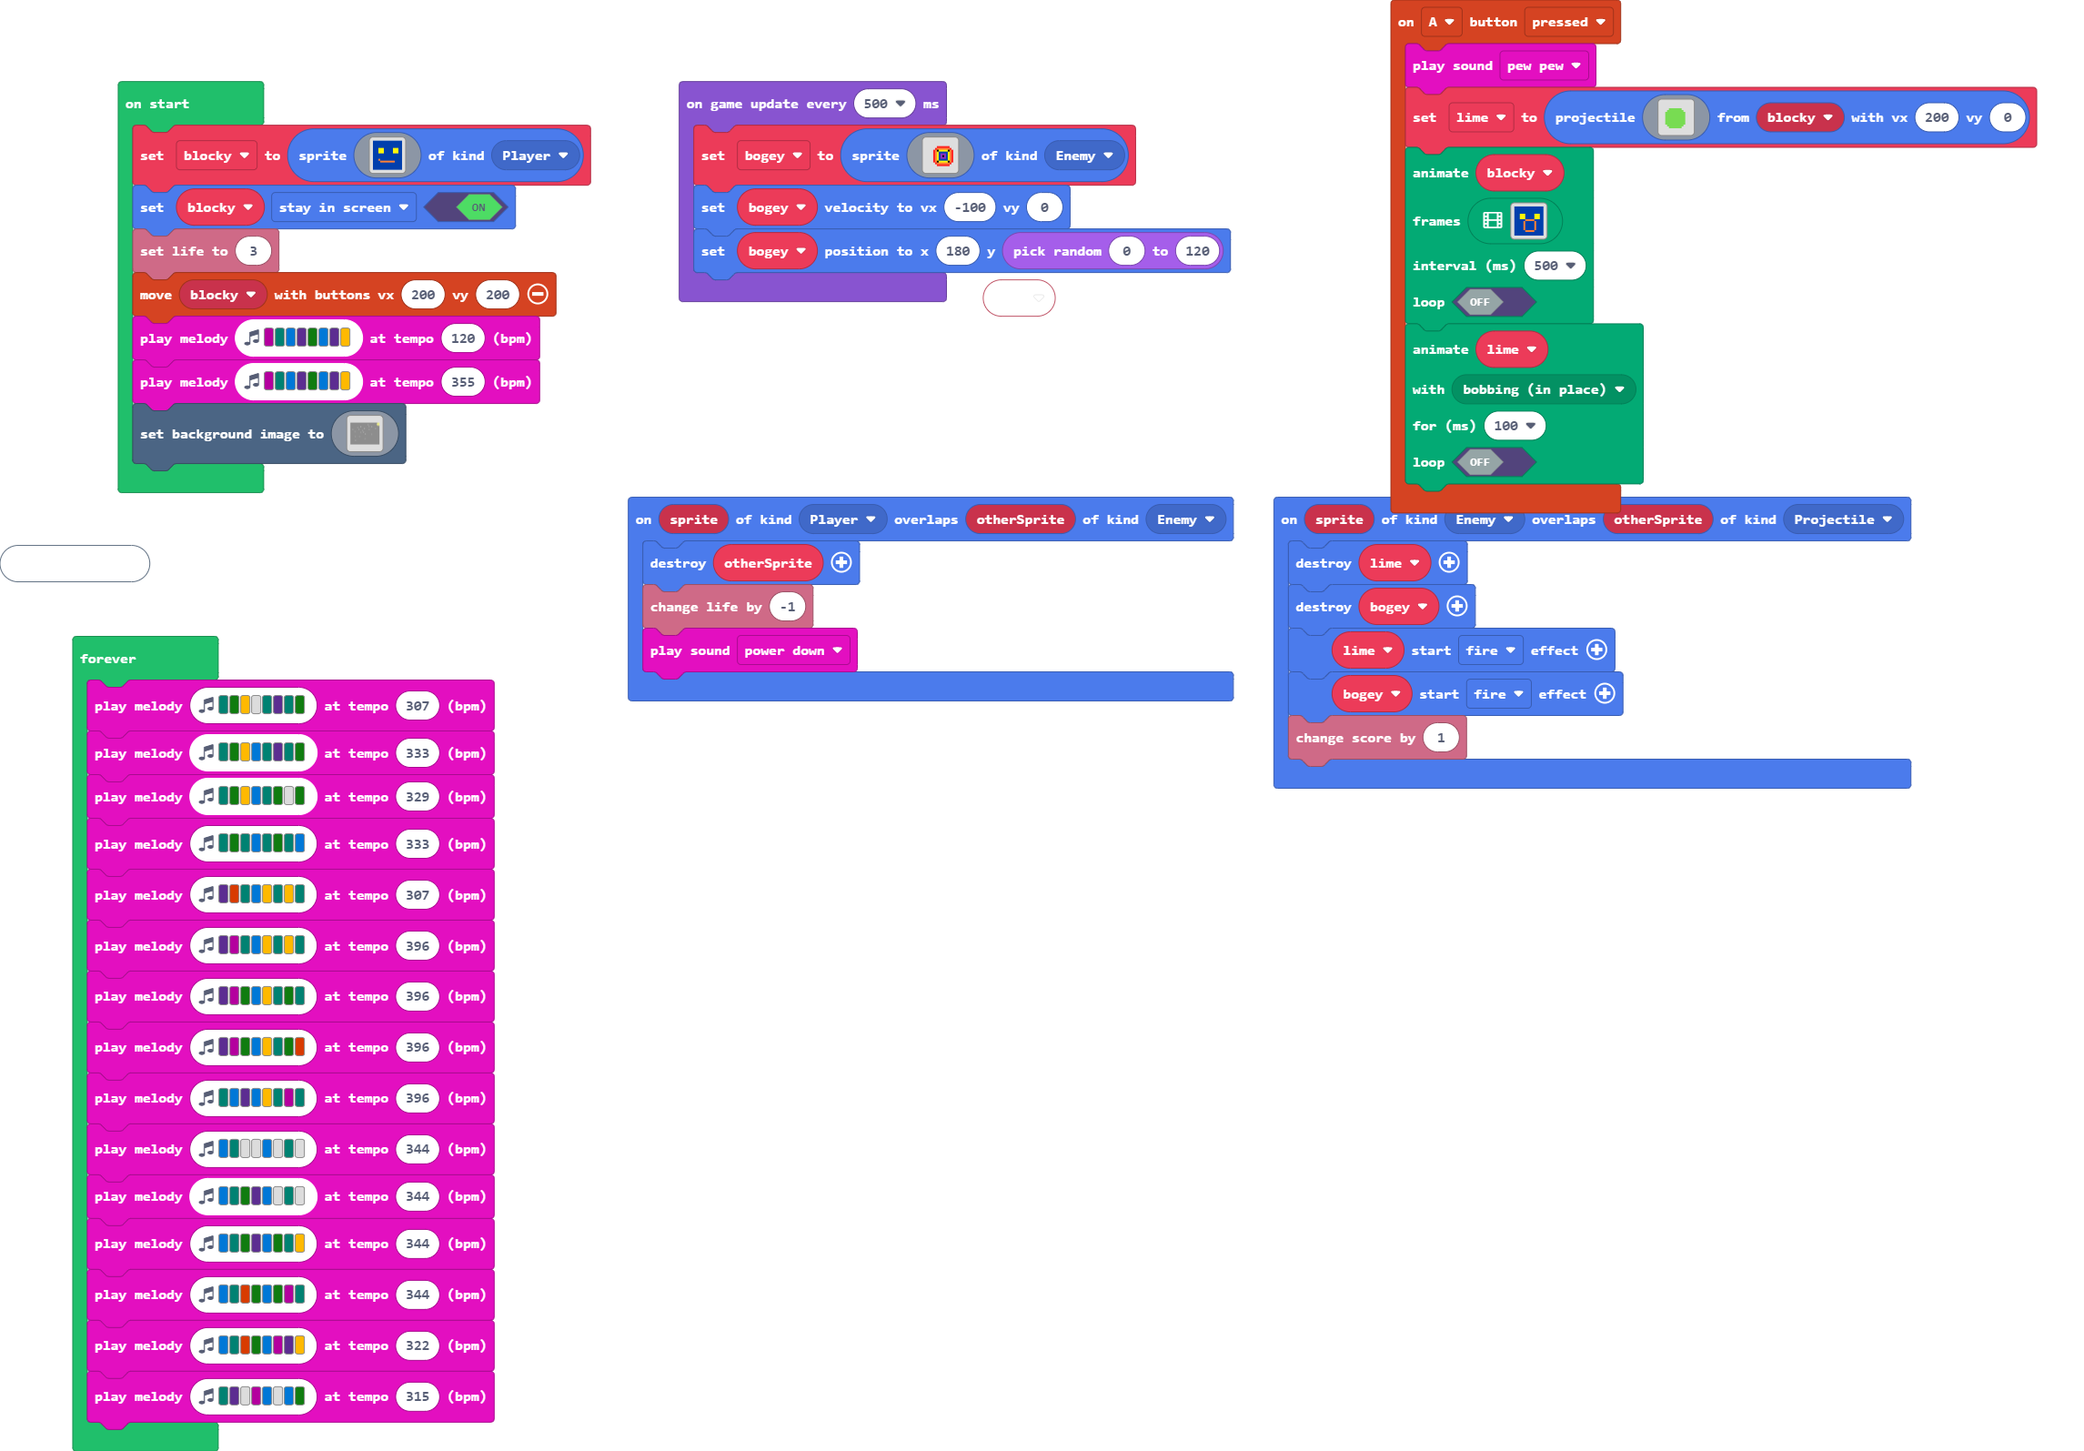
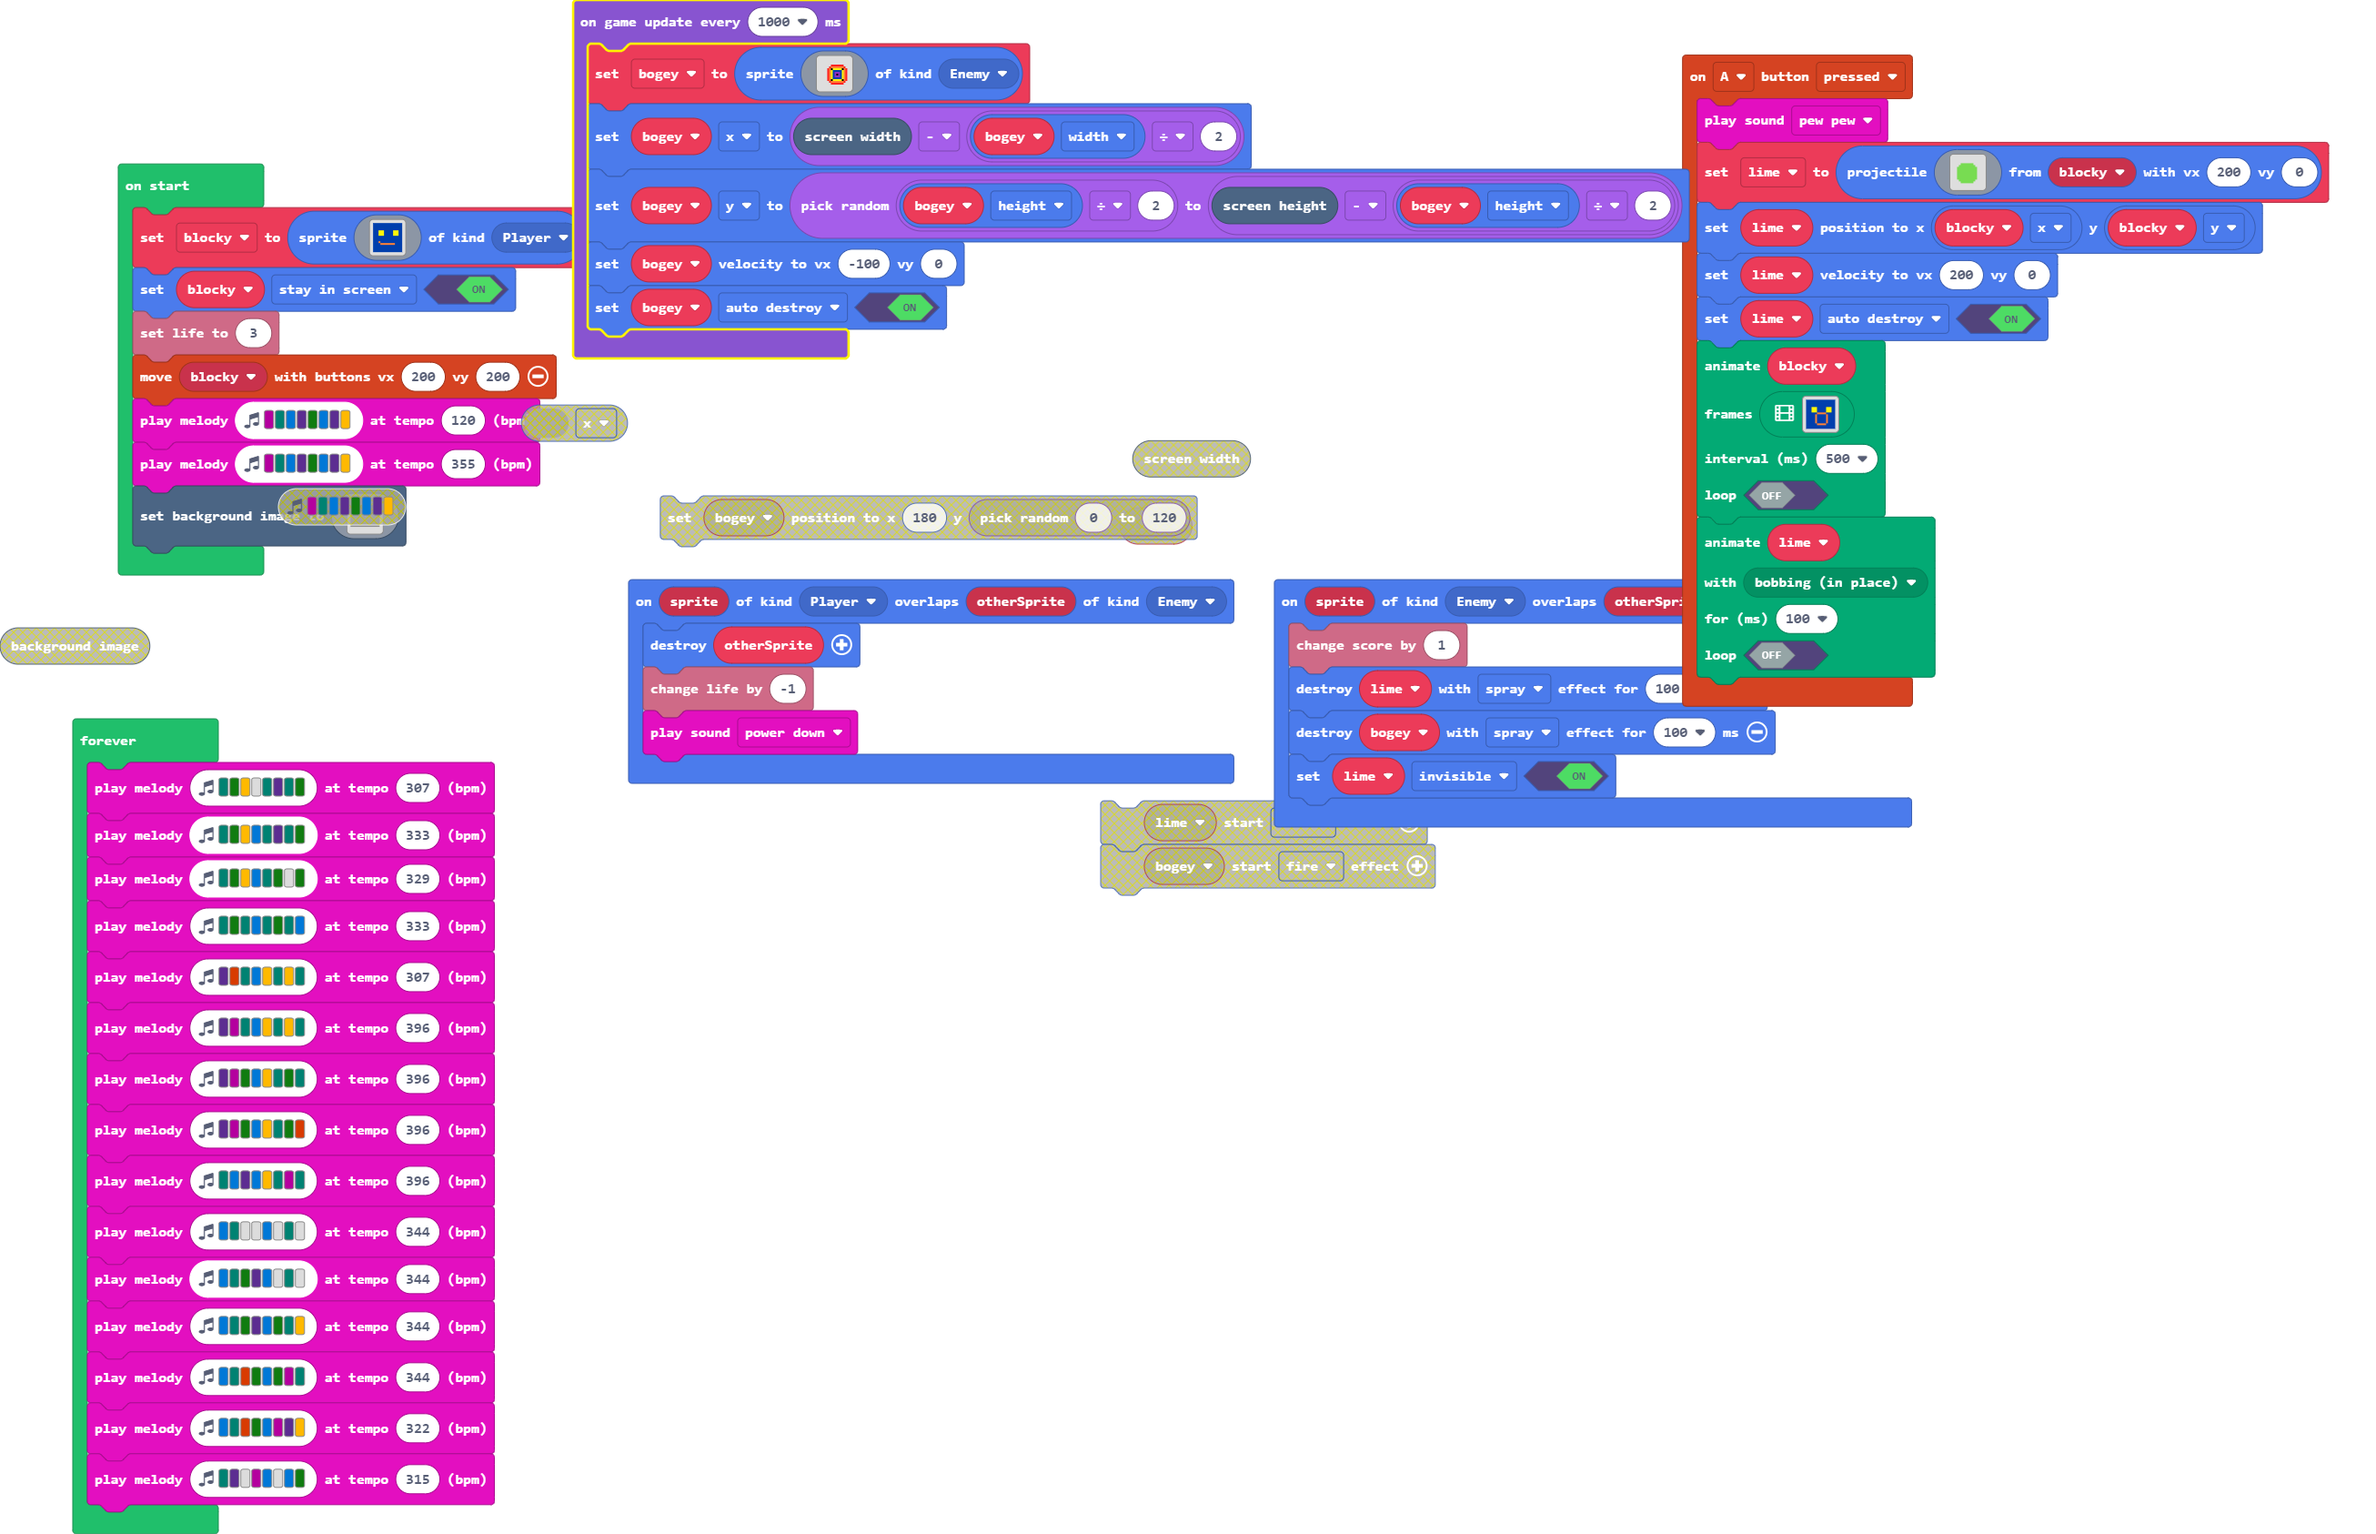
Update main.blocks, main.ts

diff --git a/main.ts b/main.ts
@@ -18,6 +18,9 @@ controller.A.onEvent(ControllerButtonEvent.Pressed, function () {
         . . . . . . . . . . . . . . . . 
         . . . . . . . . . . . . . . . . 
         `, blocky, 200, 0)
+    lime.setPosition(blocky.x, blocky.y)
+    lime.setVelocity(200, 0)
+    lime.setFlag(SpriteFlag.AutoDestroy, true)
     animation.runImageAnimation(
     blocky,
     [img`
@@ -83,11 +86,10 @@ controller.A.onEvent(ControllerButtonEvent.Pressed, function () {
     )
 })
 sprites.onOverlap(SpriteKind.Enemy, SpriteKind.Projectile, function (sprite, otherSprite) {
-    lime.destroy()
-    bogey.destroy()
-    lime.startEffect(effects.fire)
-    bogey.startEffect(effects.fire)
     info.changeScoreBy(1)
+    lime.destroy(effects.spray, 100)
+    bogey.destroy(effects.spray, 100)
+    lime.setFlag(SpriteFlag.Invisible, true)
 })
 sprites.onOverlap(SpriteKind.Player, SpriteKind.Enemy, function (sprite, otherSprite) {
     otherSprite.destroy()
@@ -242,24 +244,7 @@ scene.setBackgroundImage(img`
     ffffffffffffffffffffffffffffffffffffffffffffffffffffffffffffffffffffffffffffffffffffffffffffffffffffffffffffffffffffffffffffffffffffffffffffffffffffffffffffffff
     ffffffffffffffffffffffffffffffffffffffffffffffffffffffffffffffffffffffffffffffffffffffffffffffffffffffffffffffffffffffffffffffffffffffffffffffffffffffffffffffff
     `)
-forever(function () {
-    music.playMelody("F G A - F D F G ", 307)
-    music.playMelody("F G A E F D F G ", 333)
-    music.playMelody("F G A E F G - G ", 329)
-    music.playMelody("F G F E F G F E ", 333)
-    music.playMelody("D B F E A F A F ", 307)
-    music.playMelody("D C F E A F A F ", 396)
-    music.playMelody("D C G E A F G F ", 396)
-    music.playMelody("D C G E A F G B ", 396)
-    music.playMelody("F E D E A F C F ", 396)
-    music.playMelody("E F - - E - F - ", 344)
-    music.playMelody("E F G D E - F - ", 344)
-    music.playMelody("E F G D E G F A ", 344)
-    music.playMelody("E F B G E G C F ", 344)
-    music.playMelody("E F B G E C D A ", 322)
-    music.playMelody("F D - C E - E G ", 315)
-})
-game.onUpdateInterval(500, function () {
+game.onUpdateInterval(1000, function () {
     bogey = sprites.create(img`
         . . . . . . . . . . . . . . . . 
         . . . . . . . . . . . . . . . . 
@@ -278,6 +263,25 @@ game.onUpdateInterval(500, function () {
         . . . . . . . . . . . . . . . . 
         . . . . . . . . . . . . . . . . 
         `, SpriteKind.Enemy)
+    bogey.x = scene.screenWidth() - bogey.width / 2
+    bogey.y = randint(bogey.height / 2, scene.screenHeight() - bogey.height / 2)
     bogey.setVelocity(-100, 0)
-    bogey.setPosition(180, randint(0, 120))
+    bogey.setFlag(SpriteFlag.AutoDestroy, true)
+})
+forever(function () {
+    music.playMelody("F G A - F D F G ", 307)
+    music.playMelody("F G A E F D F G ", 333)
+    music.playMelody("F G A E F G - G ", 329)
+    music.playMelody("F G F E F G F E ", 333)
+    music.playMelody("D B F E A F A F ", 307)
+    music.playMelody("D C F E A F A F ", 396)
+    music.playMelody("D C G E A F G F ", 396)
+    music.playMelody("D C G E A F G B ", 396)
+    music.playMelody("F E D E A F C F ", 396)
+    music.playMelody("E F - - E - F - ", 344)
+    music.playMelody("E F G D E - F - ", 344)
+    music.playMelody("E F G D E G F A ", 344)
+    music.playMelody("E F B G E G C F ", 344)
+    music.playMelody("E F B G E C D A ", 322)
+    music.playMelody("F D - C E - E G ", 315)
 })
